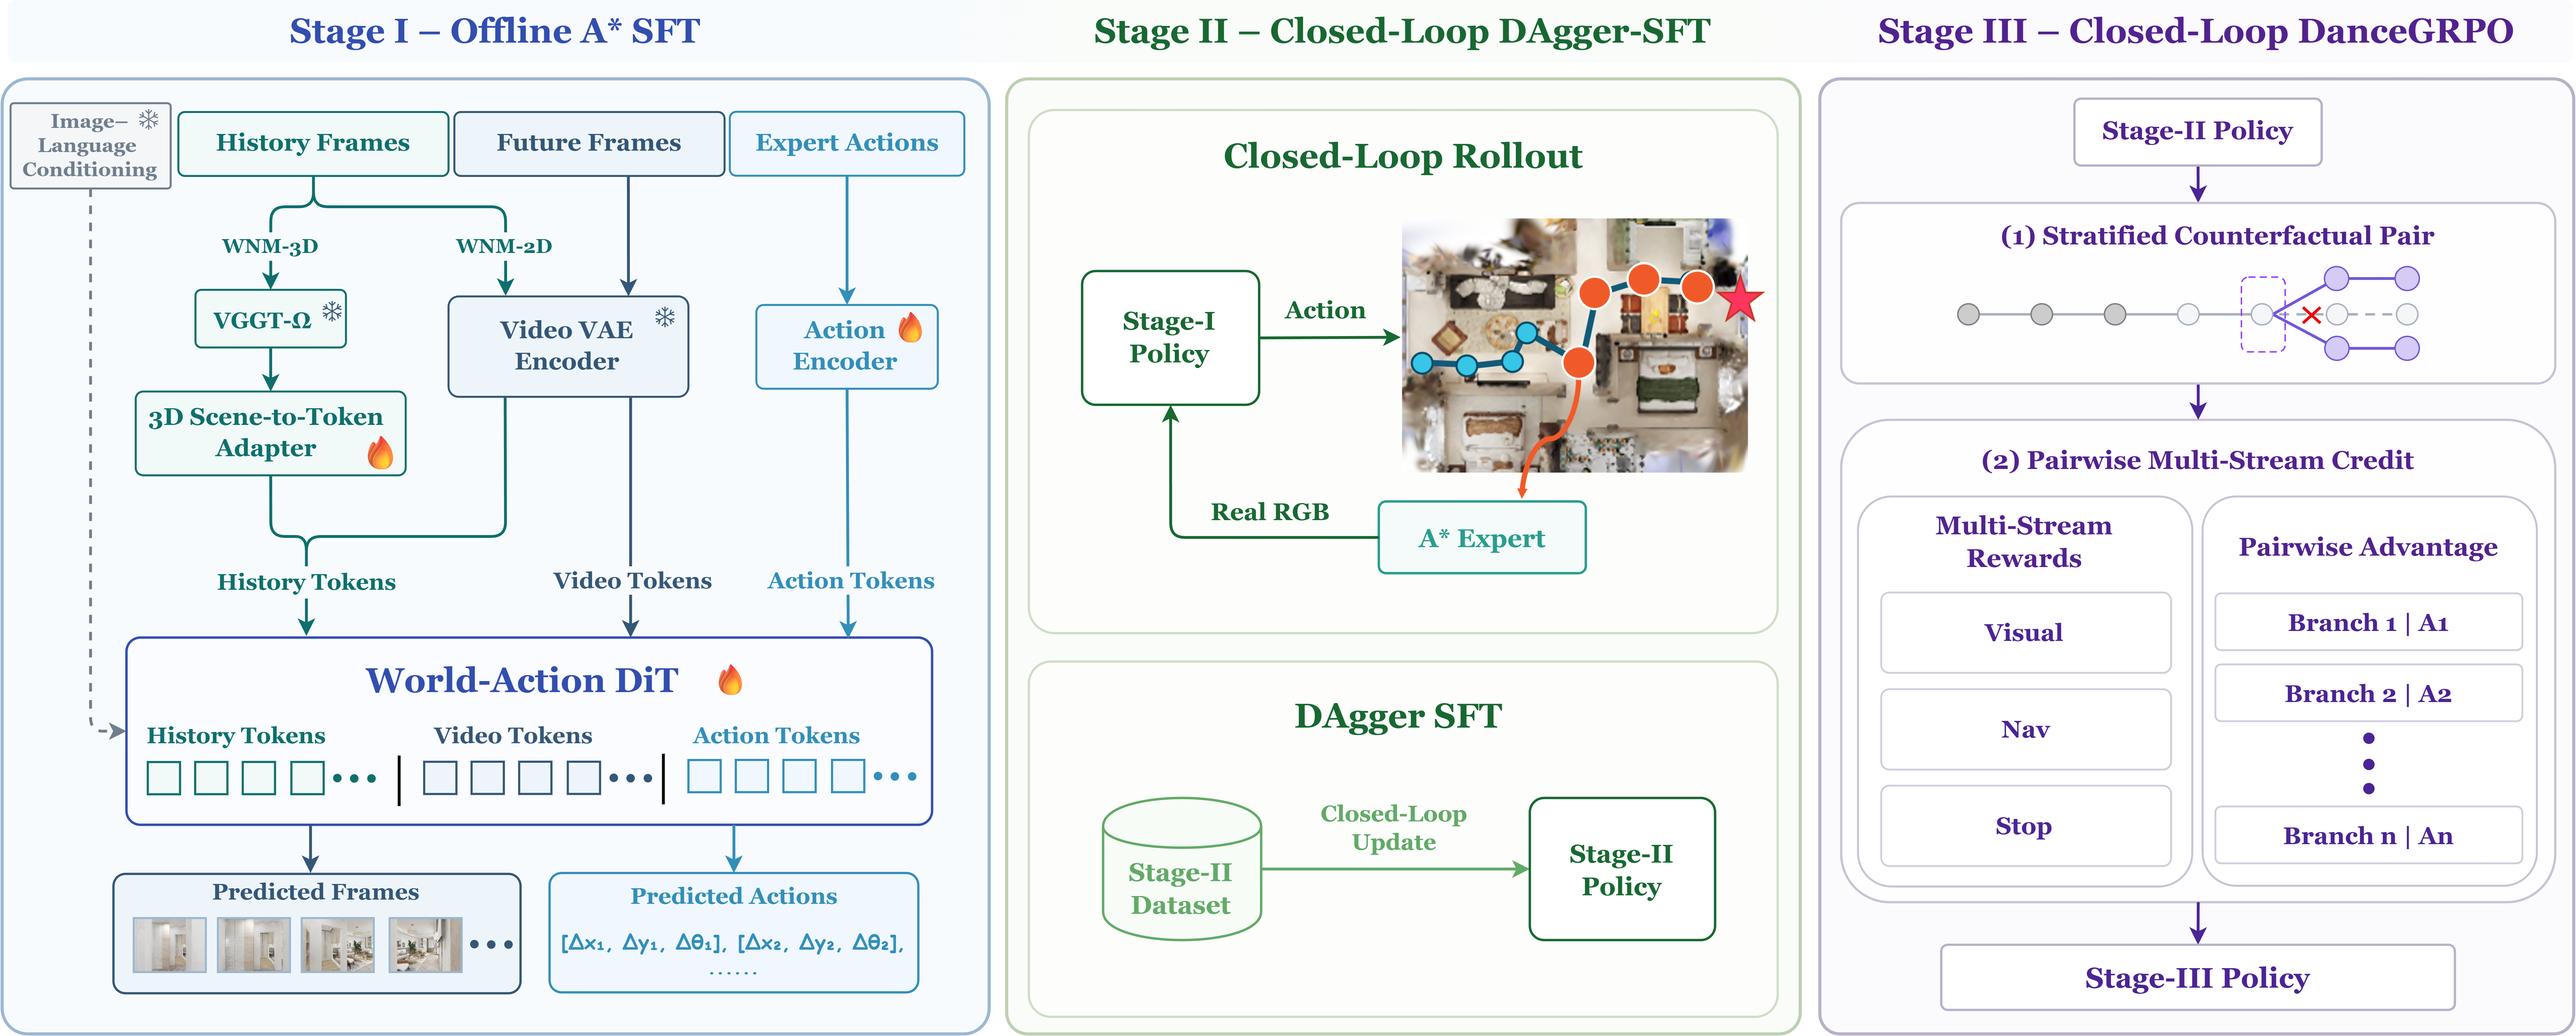
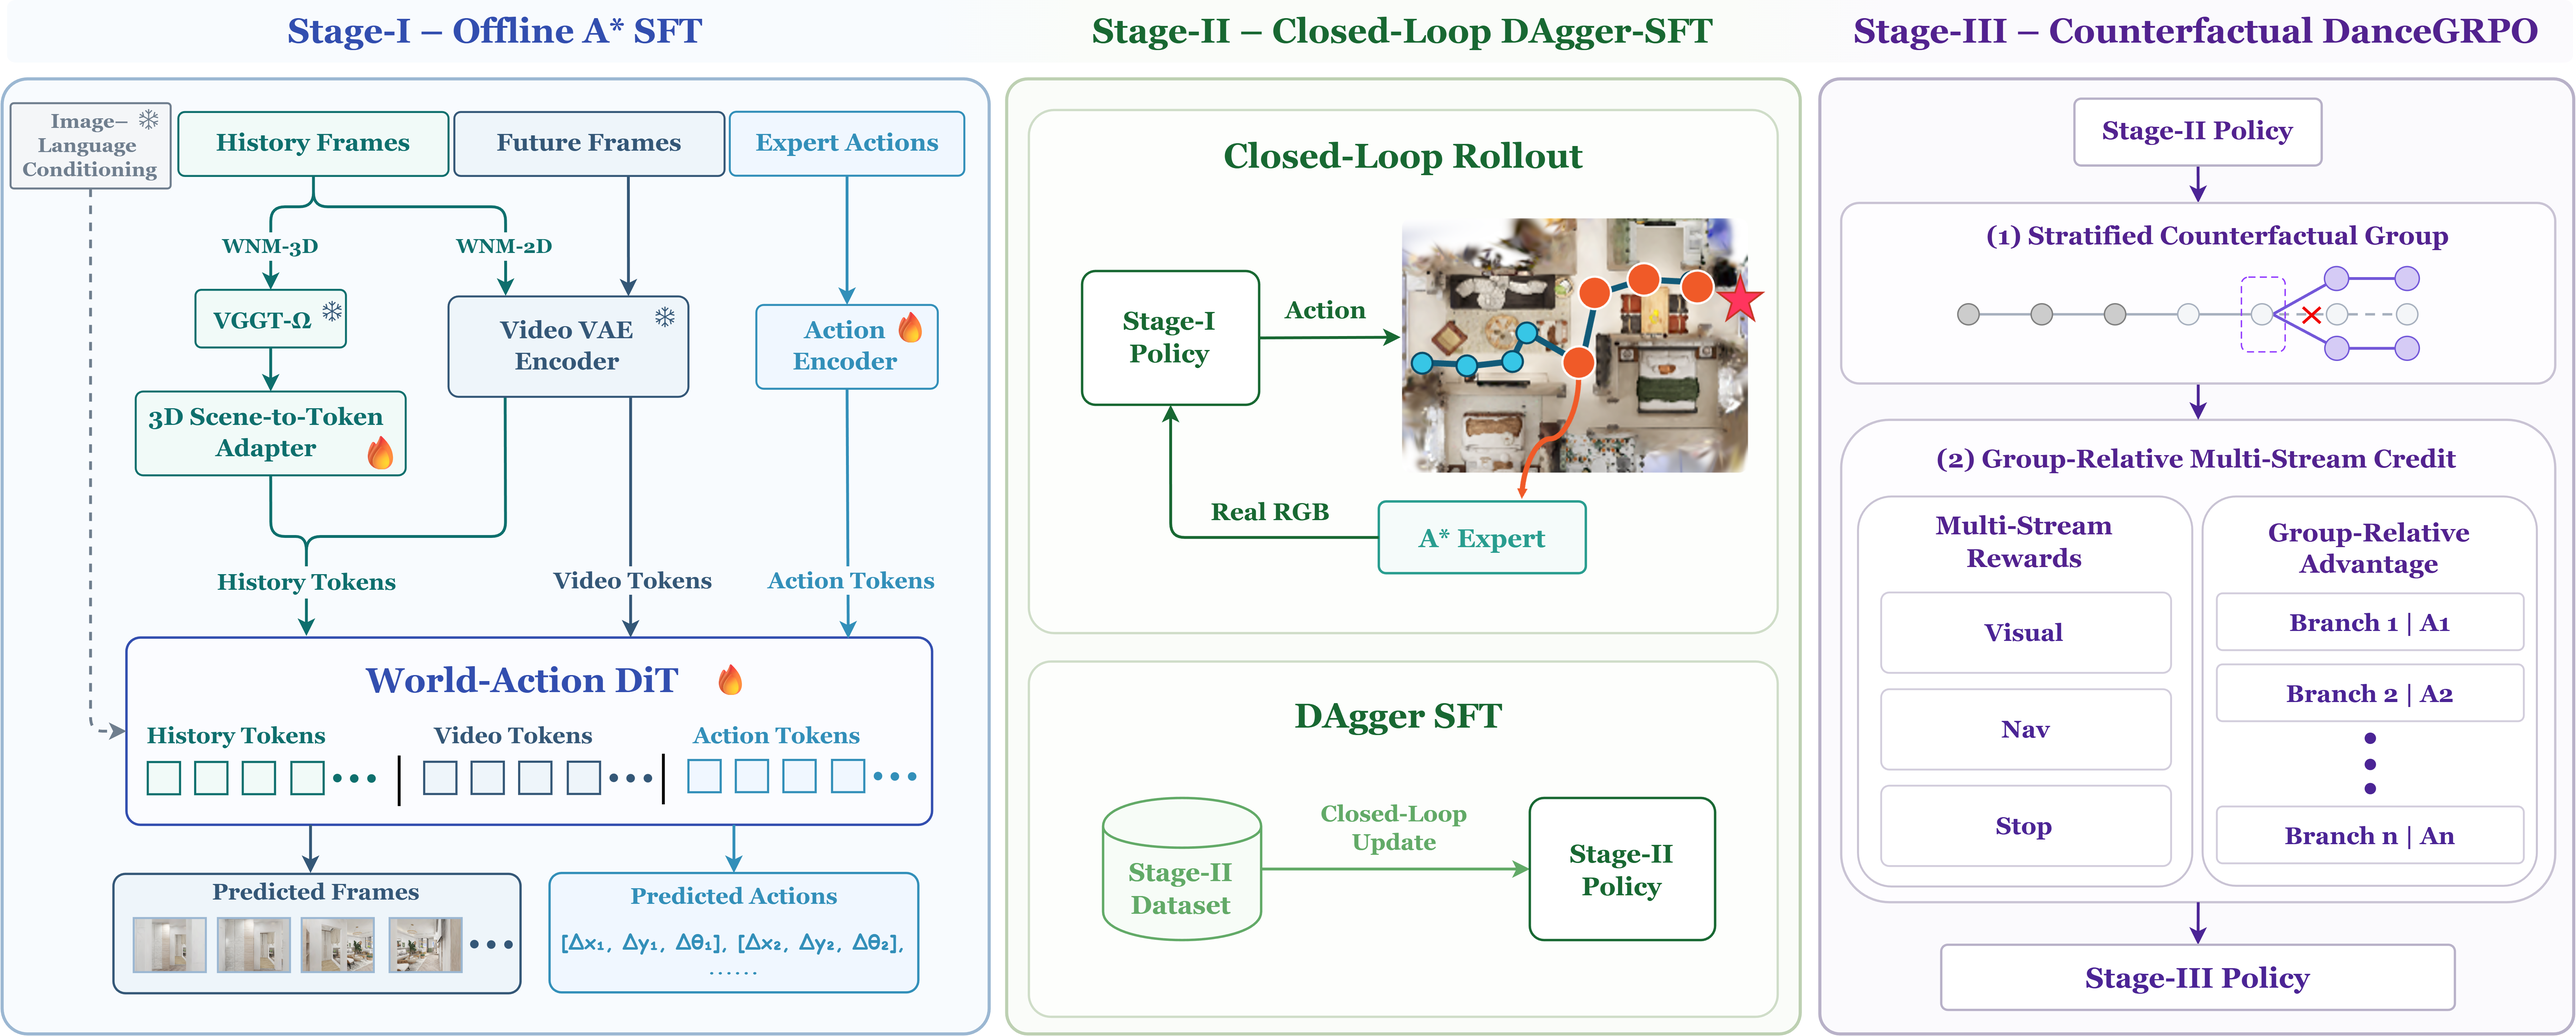
Counterfactual DanceGRPO

diff --git a/index.html b/index.html
@@ -1694,7 +1694,7 @@
               <div data-v-e3723c72="">
                 <h3 data-v-e3723c72="">Offline A* SFT</h3>
                 <p data-v-e3723c72="">
-                  Stage I jointly learns future visual prediction and action generation from offline A*-expert
+                  Stage-I jointly learns future visual prediction and action generation from offline A*-expert
                   demonstrations. For WNM-3D, the 3D Scene-to-Token Adapter is trained with the world-action backbone,
                   while the VGGT-Ω scene encoder remains frozen.
                 </p>
@@ -1705,7 +1705,7 @@
               <div data-v-e3723c72="">
                 <h3 data-v-e3723c72="">Closed-Loop DAgger-SFT</h3>
                 <p data-v-e3723c72="">
-                  Stage II rolls out the Stage I policy in simulation and queries the A* expert at policy-visited states.
+                  Stage-II rolls out the Stage-I policy in simulation and queries the A* expert at policy-visited states.
                   The resulting trajectory-consistent visual and action corrections form a policy-specific DAgger
                   dataset that mitigates closed-loop covariate shift.
                 </p>
@@ -1716,7 +1716,7 @@
               <div data-v-e3723c72="">
                 <h3 data-v-e3723c72="">Closed-Loop DanceGRPO</h3>
                 <p data-v-e3723c72="">
-                  Stage III starts from the Stage II policy and optimizes stratified counterfactual world-action sample pairs with pairwise multi-stream credit assignment over visual, navigation, and stopping rewards, further refining the joint visual-action policy for closed-loop execution.
+                  Stage-III starts from the Stage-II policy and uses DanceGRPO to optimize groups of counterfactual world-action samples across stratified denoising transitions, with group-relative credit assignment over visual, navigation, and stopping rewards to further refine the policy for closed-loop execution.
                 </p>
               </div>
             </article>
